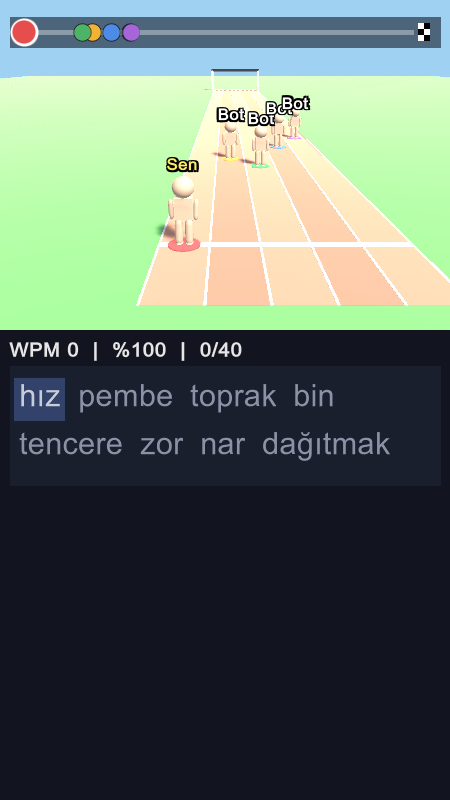
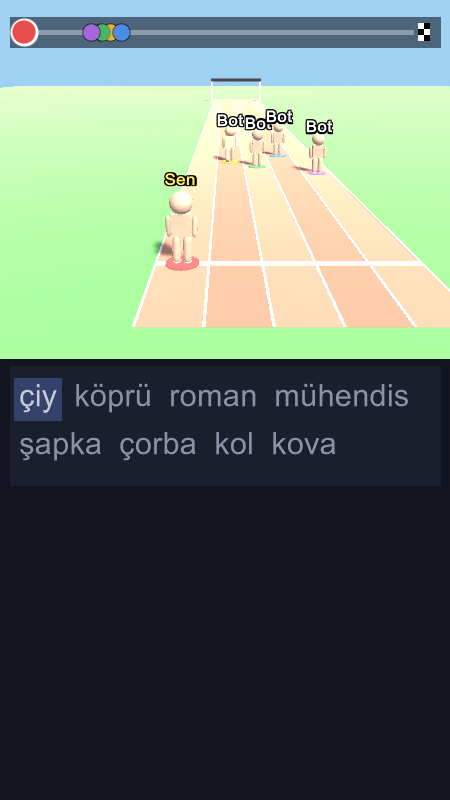
Yaris sirasinda WPM/dogruluk/kelime sayaci kaldirildi (sonuc tablosunda kalir)

Changed region(s): [[0.0, 0.0625, 1.0, 0.5938], [0.1556, 0.0312, 0.3111, 0.0625]]

diff --git a/client/Assets/Scripts/Game/OnlineGameController.cs b/client/Assets/Scripts/Game/OnlineGameController.cs
@@ -39,7 +39,7 @@ namespace TextRun.Game
         float lobbyEndsLocal;
         float countdownEndsLocal;
 
-        GUIStyle titleStyle, bigButton, labelStyle, centerStyle, smallStyle, statsStyle;
+        GUIStyle titleStyle, bigButton, labelStyle, centerStyle, smallStyle;
 
         void Start()
         {
@@ -322,7 +322,6 @@ namespace TextRun.Game
             labelStyle = new GUIStyle(GUI.skin.label) { fontSize = 18 };
             centerStyle = new GUIStyle(GUI.skin.label) { fontSize = 20, alignment = TextAnchor.MiddleCenter, wordWrap = true };
             smallStyle = new GUIStyle(GUI.skin.label) { fontSize = 14, wordWrap = true };
-            statsStyle = new GUIStyle(GUI.skin.label) { fontSize = 16, wordWrap = false, fontStyle = FontStyle.Bold };
         }
 
         void OnGUI()
@@ -460,7 +459,7 @@ namespace TextRun.Game
         void DrawCountdown(float width, float height, float top, float scale)
         {
             // Üstte 3D pist, altta kelimeler (yarıştaki düzenin aynısı; yazmak için henüz erken)
-            LayoutRaceArea(width, height, scale, out var box, out float statsY);
+            LayoutRaceArea(width, height, scale, out var box, out float devButtonY);
             view.DrawLabels(scale, T("you"), T("bot"));
             progressStrip.Draw(new Rect(8f, top + 8f, width - 16f, 26f), players, wordCount, net.UserId, 0f);
 
@@ -469,16 +468,16 @@ namespace TextRun.Game
             GUI.Label(new Rect(width / 2f - 90f, top + 46f, 180f, 90f), seconds > 0 ? seconds.ToString() : T("getReady"), titleStyle);
 
             if (typing != null) wordView.Draw(box, typing, "");
-            DrawSimulatedKeyboard(width, height, scale, statsY);
+            DrawSimulatedKeyboard(width, height, scale, devButtonY);
         }
 
         // Yalnızca editörde: telefon klavyesinin kaplayacağı alanı gri bir blokla gösterir, düzeni PC'de telefondaki gibi görmek için.
-        void DrawSimulatedKeyboard(float width, float height, float scale, float statsY)
+        void DrawSimulatedKeyboard(float width, float height, float scale, float devButtonY)
         {
             if (!Application.isEditor) return;
 
             // İstatistik satırının sağında (ilerleme şeridiyle çakışmasın)
-            if (GUI.Button(new Rect(width - 118f, statsY - 2f, 112f, 24f), KeyboardInput.SimulateInEditor ? "Klavye: AÇIK" : "Klavye: KAPALI"))
+            if (GUI.Button(new Rect(width - 118f, devButtonY, 112f, 24f), KeyboardInput.SimulateInEditor ? "Klavye: AÇIK" : "Klavye: KAPALI"))
                 KeyboardInput.SimulateInEditor = !KeyboardInput.SimulateInEditor;
 
             float keyboardH = keyboard.AreaHeight / scale;
@@ -489,20 +488,17 @@ namespace TextRun.Game
 
         void DrawRacing(float width, float height, float top, float scale)
         {
-            LayoutRaceArea(width, height, scale, out var box, out float statsY);
+            LayoutRaceArea(width, height, scale, out var box, out float devButtonY);
             view.DrawLabels(scale, T("you"), T("bot"));
             // Kendi ilerlemen sunucu cevabını beklemeden yerel durumdan gösterilir
             progressStrip.Draw(new Rect(8f, top + 8f, width - 16f, 26f), players, wordCount, net.UserId, (float)typing.CurrentIndex / Mathf.Max(1, wordCount));
 
-            // Tek satır: ikinci satıra kayarsa kelime kutusunun arkasında kalır
-            string stats = T("wpm") + " " + typing.Wpm(Time.realtimeSinceStartup).ToString("0")
-                + "  |  %" + (typing.Accuracy * 100f).ToString("0")
-                + "  |  " + typing.CurrentIndex + "/" + typing.Count;
-            GUI.Label(new Rect(8f, statsY, width - 16f, 24f), stats, statsStyle);
+            // Yarış sırasında istatistik (WPM, doğruluk, kelime sayısı) gösterilmez; oyuncu yalnızca birinci olmaya odaklanır.
+            // İstatistikler yarış sonunda sonuç tablosunda görünür.
 
             // Kelime kutusunda yalnızca doğru harfler (yeşil) görünür. Klavye kapanırsa kutuya dokunmak yeniden açar.
             if (wordView.Draw(box, typing, input.Entered)) keyboard.Open(KeyboardKind.Default);
-            DrawSimulatedKeyboard(width, height, scale, statsY);
+            DrawSimulatedKeyboard(width, height, scale, devButtonY);
 
             if (noticeText.Length > 0)
             {
@@ -511,16 +507,17 @@ namespace TextRun.Game
             }
         }
 
-        // Alttan yukarı: klavye, kelime kutusu, istatistik satırı; kalan üst bölge 3D pist.
-        void LayoutRaceArea(float width, float height, float scale, out Rect box, out float statsY)
+        // Alttan yukarı: klavye, kelime kutusu; kalan üst bölge 3D pist.
+        // devButtonY: editördeki klavye simülasyonu düğmesinin yeri (pistin alt kenarı, kelime kutusunun hemen üstü).
+        void LayoutRaceArea(float width, float height, float scale, out Rect box, out float devButtonY)
         {
             float keyboardH = keyboard.AreaHeight / scale;
             float bottomEdge = height - keyboardH - 8f;
 
             box = new Rect(8f, bottomEdge - WordLinesView.BoxHeight, width - 16f, WordLinesView.BoxHeight);
-            statsY = box.y - 26f;
+            devButtonY = box.y - 30f;
 
-            float trackBottomPx = (height - statsY + 4f) * scale; // ekranın altından piksel olarak
+            float trackBottomPx = (height - box.y + 6f) * scale; // ekranın altından piksel olarak
             view.SetViewport(new Rect(0f, trackBottomPx, UnityEngine.Screen.width, UnityEngine.Screen.height - trackBottomPx));
         }
 

diff --git a/client/Assets/Scripts/Common/Loc.cs b/client/Assets/Scripts/Common/Loc.cs
@@ -23,7 +23,6 @@ namespace TextRun.Common
             { "typed", new[] { "Yazılan", "Typed" } },
             { "wpm", new[] { "WPM", "WPM" } },
             { "accuracy", new[] { "Doğruluk", "Accuracy" } },
-            { "word", new[] { "Kelime", "Word" } },
             { "results", new[] { "Sonuçlar", "Results" } },
             { "playAgain", new[] { "Tekrar oyna", "Play again" } },
             { "menu", new[] { "Menü", "Menu" } },
